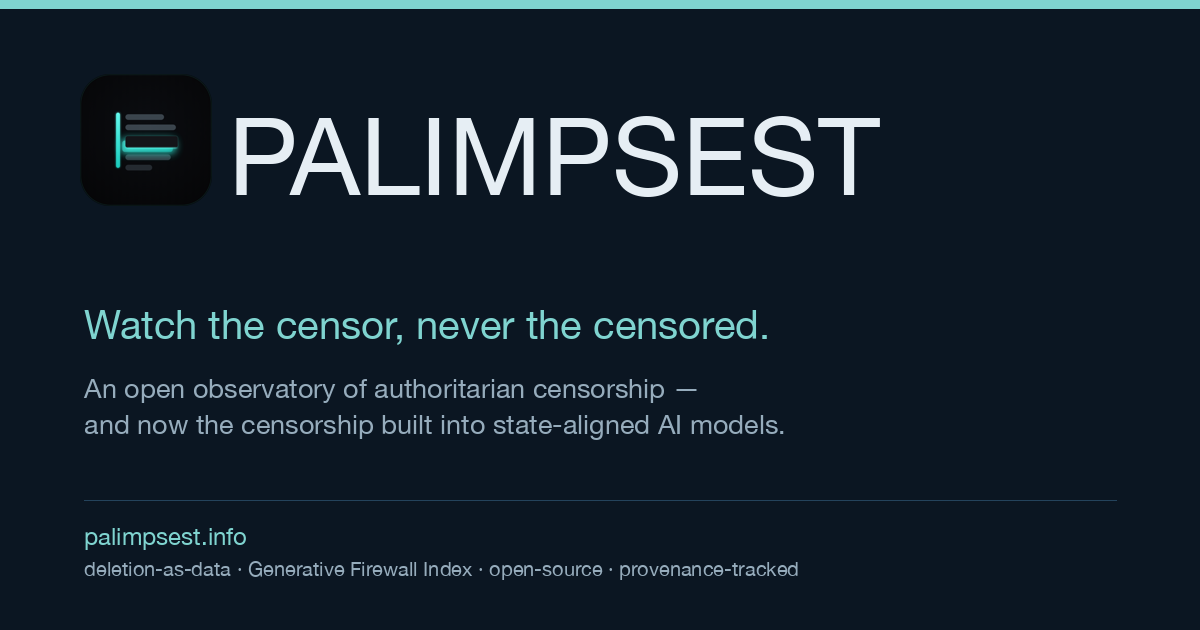
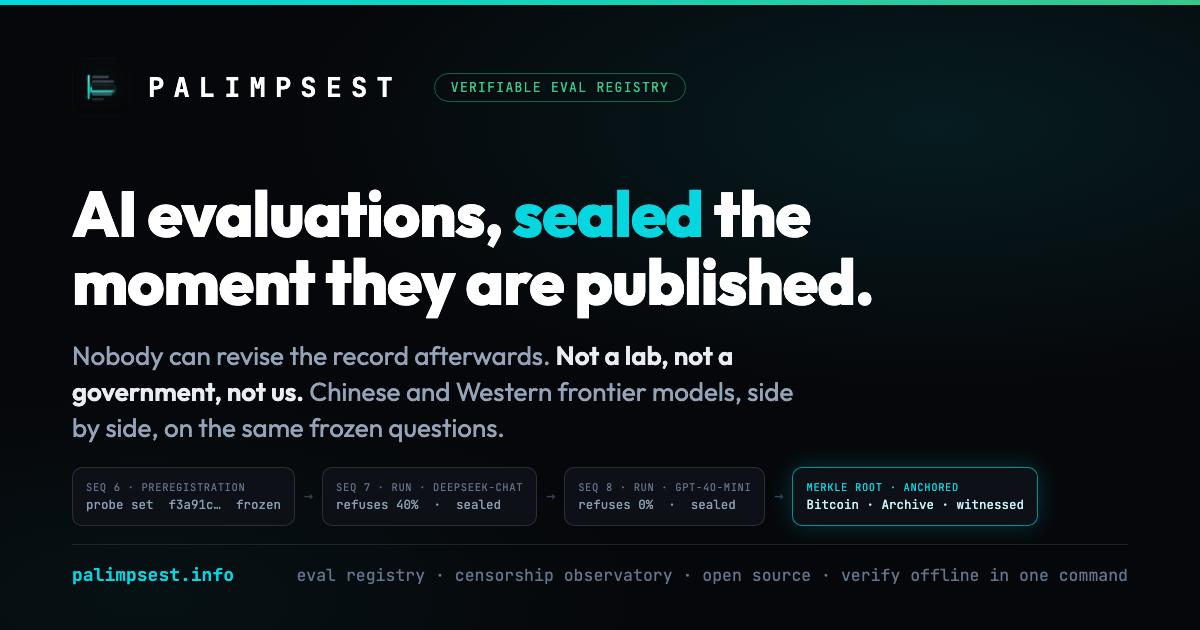
brand: registry-first OG image + live registry screenshot in README
New social card leads with the sealed-registry claim and a hash-chain motif
(preregistration -> sealed runs -> anchored merkle root); same Tikto language
as the site. README gains a live product shot of the registry page: 6 models
CN+Western side by side, chain intact, and the drift panel showing a real
caught event. og:image path unchanged so all three pages pick it up.

diff --git a/index.html b/index.html
@@ -28,7 +28,7 @@
 <meta property="og:image" content="https://palimpsest.info/brand/palimpsest-og.png">
 <meta property="og:image:width" content="1200">
 <meta property="og:image:height" content="630">
-<meta property="og:image:alt" content="Palimpsest — watch the censor, never the censored.">
+<meta property="og:image:alt" content="Palimpsest: AI evaluations, sealed the moment they are published. Nobody can revise the record. Not a lab, not a government, not us.">
 <meta property="og:locale" content="en_US">
 <meta name="twitter:card" content="summary_large_image">
 <meta name="twitter:title" content="Palimpsest · censorship observatory + verifiable AI eval registry">

diff --git a/README.md b/README.md
@@ -48,6 +48,12 @@ names the break. That is the entire idea: you do not have to trust the operator,
 > A ten-second, zero-dependency taste: `python3 demo/palimpsest_demo.py` pulls the live China
 > Digital Times feed and ranks what the censor is focused on right now (`--source sample` runs offline).
 
+![The Verifiable Eval Registry, live: sealed runs of Chinese and Western frontier models side by side, chain intact, with the frontier refusal-drift panel](docs/img/eval-registry.png)
+
+> *The registry, live. Chinese state-aligned and Western frontier models on the same frozen probes,
+> every run sealed and pre-registered, chain intact. The drift panel has already caught a real event:
+> one Western model newly refusing a benign legal question its peers answer.*
+
 ![Palimpsest DDTI Observatory — the Censorship Fear Index and the selectivity / novelty signals](docs/img/observatory.png)
 
 > *The observatory headline: the Censorship Fear Index (one auditable 0–100 number), the top censor